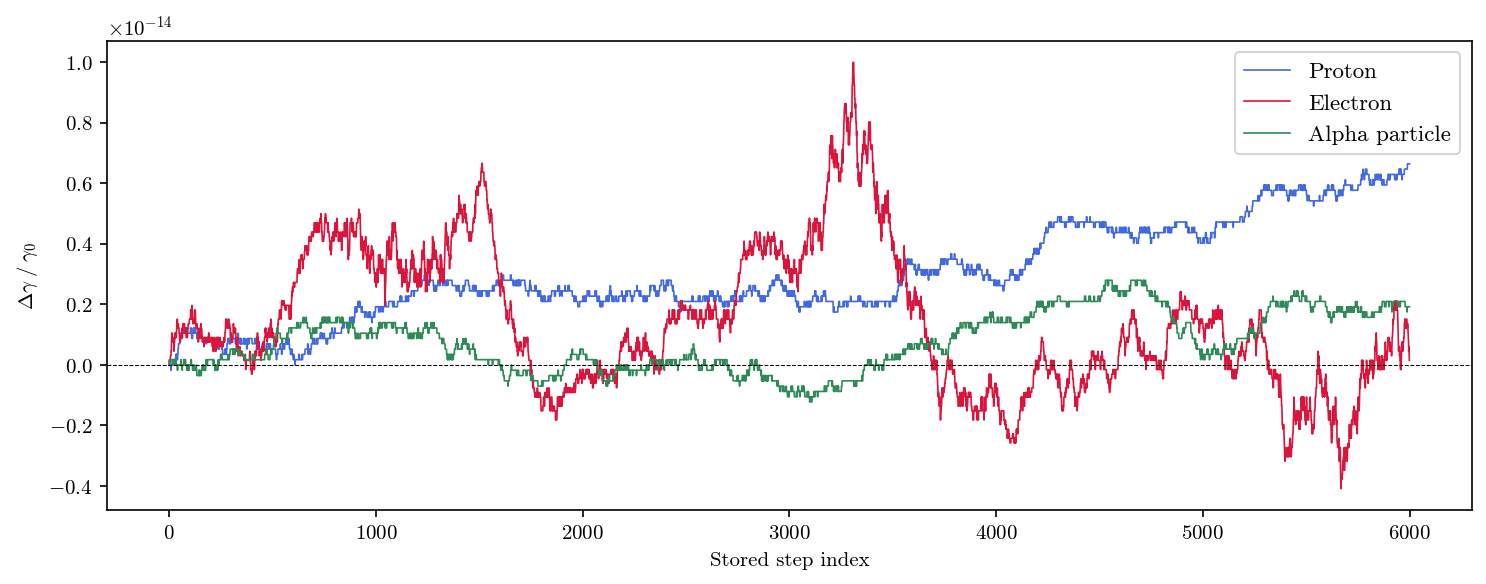
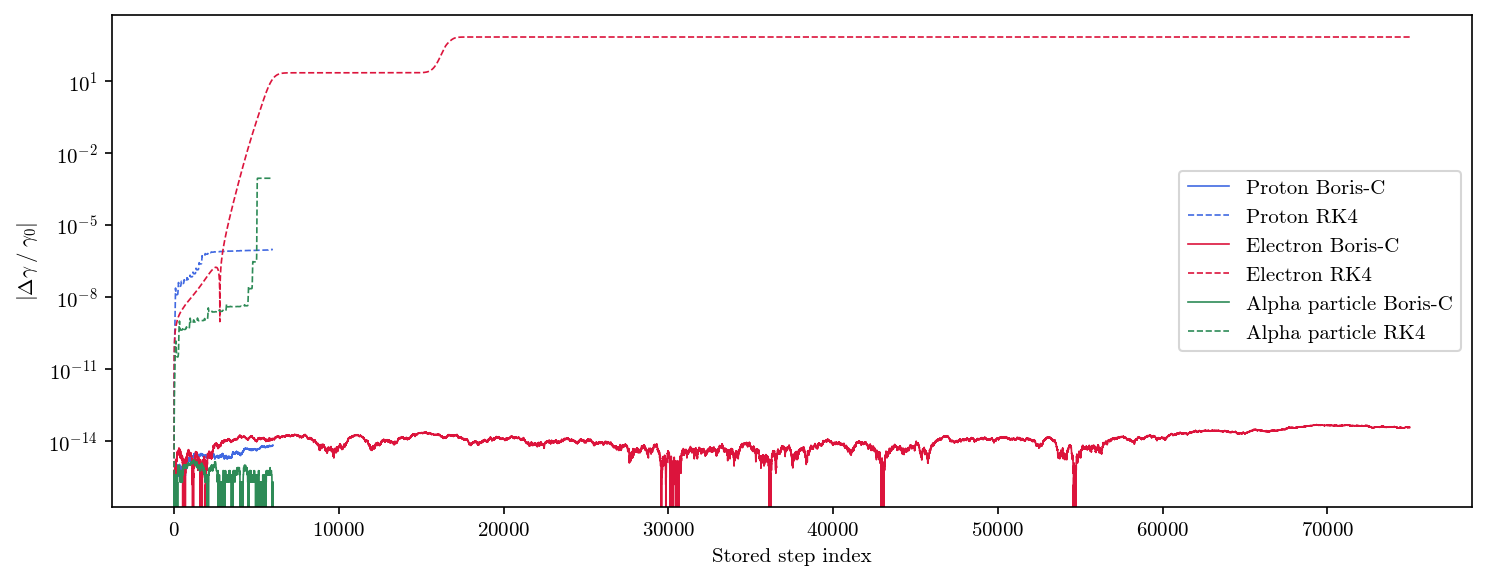
Update RK4 integrator to return gamma history and compare integrators in plot

diff --git a/project/rel_boris_c_dipole.py b/project/rel_boris_c_dipole.py
@@ -124,21 +124,28 @@ def simulate(name, q, m, r0, v0, dt, T_sim, store_every=1):
     return traj[:j], gammas[:j]
 
 
-def simulate_rk4(name, q, m, r0, v0, dt, T_sim):
-    """RK4 integrator. Returns only (gamma0, gamma_final) for error comparison."""
+def simulate_rk4(name, q, m, r0, v0, dt, T_sim, store_every=1):
+    """RK4 integrator. Returns gamma history at the same cadence as simulate()."""
     n_steps = int(T_sim / dt)
+    n_store = n_steps // store_every + 1
 
     beta2  = np.dot(v0, v0) / c**2
     gamma0 = 1.0 / np.sqrt(1.0 - beta2)
 
     r = r0.copy()
     v = v0.copy()
-    for _ in tqdm(range(n_steps), desc=f"RK4      {name:<14}"):
-        r, v = rk4_step(r, v, q, m, dt)
+    gammas    = np.empty(n_store)
+    gammas[0] = gamma0
 
-    v2          = np.dot(v, v)
-    gamma_final = 1.0 / np.sqrt(max(1e-30, 1.0 - v2 / c**2))
-    return gamma0, gamma_final
+    j = 1
+    for i in tqdm(range(1, n_steps + 1), desc=f"RK4      {name:<14}"):
+        r, v = rk4_step(r, v, q, m, dt)
+        if i % store_every == 0 and j < n_store:
+            v2        = np.dot(v, v)
+            gammas[j] = 1.0 / np.sqrt(max(1e-30, 1.0 - v2 / c**2))
+            j += 1
+
+    return gammas[:j]
 
 
 # –– Simulation and plotting functions ––––––––––––––––––––––––––––––––––––––––
@@ -151,12 +158,12 @@ def run_simulation(particles_list):
         traj, gammas        = simulate(
             p['name'], p['q'], p['m'], p['r0'], p['v0'],
             p['dt'], p['T_sim'], p['store_every'])
-        gamma0, gamma_final = simulate_rk4(
+        gammas_rk4 = simulate_rk4(
             p['name'], p['q'], p['m'], p['r0'], p['v0'],
-            p['dt'], p['T_sim'])
+            p['dt'], p['T_sim'], p['store_every'])
 
-        summary.append((p['name'], gammas[0], gammas[-1], gamma_final))
-        results[p['name']] = dict(traj=traj, gammas=gammas, color=p['color'])
+        summary.append((p['name'], gammas[0], gammas[-1], gammas_rk4[-1]))
+        results[p['name']] = dict(traj=traj, gammas=gammas, gammas_rk4=gammas_rk4, color=p['color'])
 
     # ── Unified energy-error table ────────────────────────────────────────────
     hdr = f"  {'Particle':<16} {'Method':<9} {'gamma_0':>8} {'gamma_final':>10} {'gamma_error':>10}"
@@ -236,17 +243,19 @@ def plot_results(results,save=True,show=True,lim=5,out_dir='figures',suffix=''):
     if show:
         plt.show()
 
-    # ── Energy conservation (relative Lorentz factor error) ─────────────────
+    # ── Energy conservation (|relative Lorentz factor error|, log scale) ──────
     fig3, ax3 = plt.subplots(figsize=(10, 4))
     for name, d in results.items():
-        g0  = d['gammas'][0]
-        err = (d['gammas'] - g0) / g0
-        ax3.plot(err, color=d['color'], linewidth=0.8, label=name)
+        g0 = d['gammas'][0]
+        err_bc  = np.abs(d['gammas']     - g0) / g0
+        err_rk4 = np.abs(d['gammas_rk4'] - g0) / g0
+        ax3.plot(err_bc,  color=d['color'], linewidth=0.8, label=f'{name} Boris-C')
+        ax3.plot(err_rk4, color=d['color'], linewidth=0.8, linestyle='--', label=f'{name} RK4')
 
-    ax3.axhline(0.0, color='k', linewidth=0.5, linestyle='--')
+    ax3.set_yscale('log')
     ax3.set_xlabel('Stored step index')
-    ax3.set_ylabel(r'$\Delta\gamma\;/\;\gamma_0$')
-    ax3.legend(fontsize=11)
+    ax3.set_ylabel(r'$|\Delta\gamma\;/\;\gamma_0|$')
+    ax3.legend(fontsize=10)
     plt.tight_layout()
 
     if save:
@@ -265,12 +274,14 @@ def beta_from_ke(KE, m):
     beta = np.sqrt(1 - 1/gamma**2)
     return beta
 
+
 def ke_from_beta(beta, m):
     """Convert speed [m/s] to kinetic energy [eV] for a particle of mass m [kg]."""
     gamma = 1 / np.sqrt(1 - beta**2)
     KE_J = (gamma - 1) * m * c**2
     KE_eV = KE_J / q_e  # Convert Joules to eV
     return KE_eV
+
 
 # ── Particle configurations and initial conditions ──────────────────────────
 def init_cond(yaml_file):
@@ -308,6 +319,7 @@ def init_cond(yaml_file):
     with open(yaml_file, 'r') as f:
         config = yaml.safe_load(f)
     
+    print()
     particles = []
     for p in config['particles']:
         alpha = np.radians(p['alpha'])
@@ -336,6 +348,8 @@ def init_cond(yaml_file):
             color=p['color']
         ))
         print(f"Initialized {p['name']}: r0 = {p['r0']} RE, v0 = {beta:.3f} c, alpha = {p['alpha']} deg, ke = {ke:.2e} eV")
+    
+    print()
 
     return particles
 